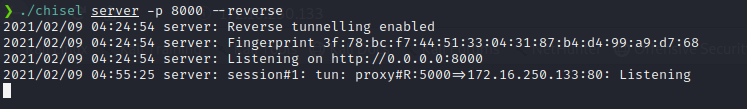
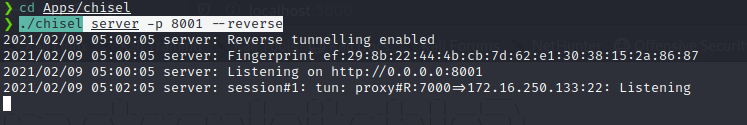
GitBook: [master] one page and 26 assets modified

Changed region(s): [[0.0, 0.0, 0.9545, 0.7706], [0.0, 0.8807, 0.0308, 0.9083]]

diff --git a/README.md b/README.md
@@ -24,21 +24,21 @@ Ubuntu y Metasploitable 2 en la VirtualBox
 
 Para nuestra Kali vamos a tener la configuracion de su red en Bridged.
 
-![](.gitbook/assets/image%20%285%29.png)
+![](.gitbook/assets/image%20%286%29.png)
 
 Nuestro Ubuntu tendra conexion con dos redes, la cual sera Bridged y un adaptador Only-Host \#4 que comparte con la metasploitable.
 
-![](.gitbook/assets/image%20%2821%29.png)
+![](.gitbook/assets/image%20%2824%29.png)
 
 Nuestra Metasploitable tendra solo conexion al adaptador Only-Host \#4 
 
-![](.gitbook/assets/image%20%2810%29.png)
+![](.gitbook/assets/image%20%2812%29.png)
 
 De esta manera tendremos que: Nuestra Kali comparte el mismo segmento de red que nuestra ubuntu, y nuestra ubuntu tiene acceso a la misma red que nuestra metasploitable. Pero nuesra Kali no ve la Metasploitable.
 
 De igual manera es importante no mantener confunsion en esta parte ya que el lab puede salir mal \(creanme puede salir todo mal..\). 
 
-![](.gitbook/assets/image%20%2819%29.png)
+![](.gitbook/assets/image%20%2822%29.png)
 
 #### Configuraciones...parte 2
 
@@ -77,7 +77,7 @@ netstat -antp
 
 Una vez ingresado estos parametros tendremos las siguientes salidas
 
-![](.gitbook/assets/image%20%2816%29.png)
+![](.gitbook/assets/image%20%2818%29.png)
 
 Seguido corremos nuestro netstat y podremos observar que:
 
@@ -94,11 +94,11 @@ portfwd add -l 8081 -p 8080 -r 127.0.0.1
 
 El comando portfwd, es un comando que funciona para realizar redirecciones de puertos. De esta manera podemos enviar todo el trafico de nuestro puerto 8080 \(Ubuntu\) a nuestro puerto 8081 \(kali\). El comando add para añadir. La bander -l indica cual sera nuestro puerto escucha, la bander -p es el puerto a cual queremos conectarnos y el flag -r es el ip de la maquina a la que nos estamos conectando.
 
-![](.gitbook/assets/image%20%2813%29.png)
+![](.gitbook/assets/image%20%2815%29.png)
 
 Seguido de esto realizamos la prueba abriendo nuestro navegador en la kali con la direccciòn del localhost:8081
 
-![](.gitbook/assets/image%20%2815%29.png)
+![](.gitbook/assets/image%20%2817%29.png)
 
 Y como asegura el Apache2.. It works!
 
@@ -121,11 +121,11 @@ Este comando se traduce de la siguiente manera:
 * -l para especificar el usuario de la maquina remota \(Ubuntu\)
 * y seguido la ip de nuestra Ubuntu
 
-![](.gitbook/assets/image%20%2826%29.png)
+![](.gitbook/assets/image%20%2830%29.png)
 
 Como se menciono anteriormente nuestro ssh paso al background y revisamos en nuestro explorador la ruta localhost:8081
 
-![](.gitbook/assets/image%20%2824%29.png)
+![](.gitbook/assets/image%20%2828%29.png)
 
 De esta manera conseguimos realizar un portForwarding entre nuestras maquinas.
 
@@ -145,7 +145,7 @@ Para este Lab necesitamos tener nuestras ips a mano.
 
 Kali
 
-![](.gitbook/assets/image%20%287%29.png)
+![](.gitbook/assets/image%20%289%29.png)
 
 Ubuntu
 
@@ -153,7 +153,7 @@ Ubuntu
 
 Metasploitable 2
 
-![](.gitbook/assets/image%20%289%29.png)
+![](.gitbook/assets/image%20%2811%29.png)
 
 Seguido, como primer paso debemos realizar la instalacion de nuestro Sshuttle
 
@@ -163,7 +163,7 @@ apt install sshuttle
 
 En este caso como ya tengo instalado el Sshuttle me saldra el siguiente mensaje
 
-![](.gitbook/assets/image%20%2817%29.png)
+![](.gitbook/assets/image%20%2819%29.png)
 
 Una vez ya instalado corremos la setencia 
 
@@ -176,7 +176,7 @@ La cual detallamos de la sigueintee manera:
 * -vr  este flag indica con la \(-v\) de verbose, de esta manera obtendremos una salida a la sentencia para poder ver lo que ocurre en el momento y la \(r\) permite ingresar un usuario.
 * seguido el usuario junto con la direcciòn ip 192.168.1.139 \(ubuntu\) y la direcciòn del segmento o cidr 172.16.250.129/16 \(metasploitable\) 
 
-![](.gitbook/assets/image%20%2811%29.png)
+![](.gitbook/assets/image%20%2813%29.png)
 
 Una vez ejecutado la sentencia podemos observar en nuestro explorador de la Kali la ip del metasploitable
 
@@ -197,7 +197,7 @@ git clone https://github.com/jpillora/chisel.git
 sudo apt install golang
 ```
 
-![](.gitbook/assets/image%20%286%29.png)
+![](.gitbook/assets/image%20%287%29.png)
 
 En mi caso tanto el chisel como golang ya se encuentran instalados en mi equipo.
 
@@ -212,7 +212,7 @@ go build -ldflags="-s -w"
 
 El cual nos genera la sigueinte salida
 
-![](.gitbook/assets/image%20%288%29.png)
+![](.gitbook/assets/image%20%2810%29.png)
 
 Seguido a esto realizamos la instalaciòn del chisel en nuestro Ubuntu
 
@@ -237,11 +237,11 @@ https://github.com/andrew-d/static-binaries/blob/master/binaries/linux/x86_64/nm
 python -m SimpleHTTPServer 80
 ```
 
-![](.gitbook/assets/image%20%2823%29.png)
+![](.gitbook/assets/image%20%2826%29.png)
 
 y desde nuestra Ubuntu podemos descargarlo en la carpeta de temporales \(tmp\)
 
-![](.gitbook/assets/image%20%2825%29.png)
+![](.gitbook/assets/image%20%2829%29.png)
 
 Una vez ya descargado nuestro binario debemos darle permiso de ejecucion con el comando chmod indicando las caracteristicas de ejecucion \(+x\)
 
@@ -255,7 +255,7 @@ y lo ejecutamos con la siguiente sentencia
 ./nmap -Pn 172.16.250.133
 ```
 
-![](.gitbook/assets/image%20%2818%29.png)
+![](.gitbook/assets/image%20%2821%29.png)
 
 Al tener ya los puertos abiertos y listados de la Metasploitable 2 podemos proceder con nuestro comando de chisel.
 
@@ -275,23 +275,47 @@ Al ejecutar este comando tendremos la siguiente salida
 
 Y en nuestra kali veremos que obtuvimos la sesion 1 
 
-![](.gitbook/assets/image%20%2820%29.png)
+![](.gitbook/assets/image%20%2823%29.png)
 
 Revisamos nuestro explorador con la direcciòn del localhost:5000
 
-![](.gitbook/assets/image%20%2814%29.png)
+![](.gitbook/assets/image%20%2816%29.png)
 
 
 
+Perfecto... tenemos conexiòn.. pero que pasa si en vez de utilizar el puerto 80 con el chisel en la Ubuntu utilizamos otro puerto?...
 
+asignamos otro puerto en nuestro servidor escucha en la Kali
 
+```text
+./chisel server -p 8001 --reverse
+```
 
+![](.gitbook/assets/image%20%285%29.png)
 
+Y en nuestro Ubuntu corremos otra sentencia del chisel pero cambiando los puertos. 8001 para nuestra kali reciba la nueva conexiòn, puerto 7000 para poder verlo en nuestra localhost de kali y el puerto 22 para el metasploitable que nos permite conectarnos por ssh
 
+```text
+./chisel client 192.168.1.144:8001 R:7000:172.16.250.133:22
+```
 
+![](.gitbook/assets/image%20%2827%29.png)
 
+Ahora revisamos nuestra kali....
 
+Tenemos que se realizo una conexiòn en chisel por el puerto 7000
 
+![](.gitbook/assets/image%20%2820%29.png)
+
+y probamos en este caso conectarnos desde nuestro localhost al puerto 7000 e ingresamos la pass de nuestro Metasploitable
+
+```text
+ssh msfadmin@127.0.0.1 -p 7000
+```
+
+![](.gitbook/assets/image%20%288%29.png)
+
+y como dice el Apache... It Works! 
 
 
 
